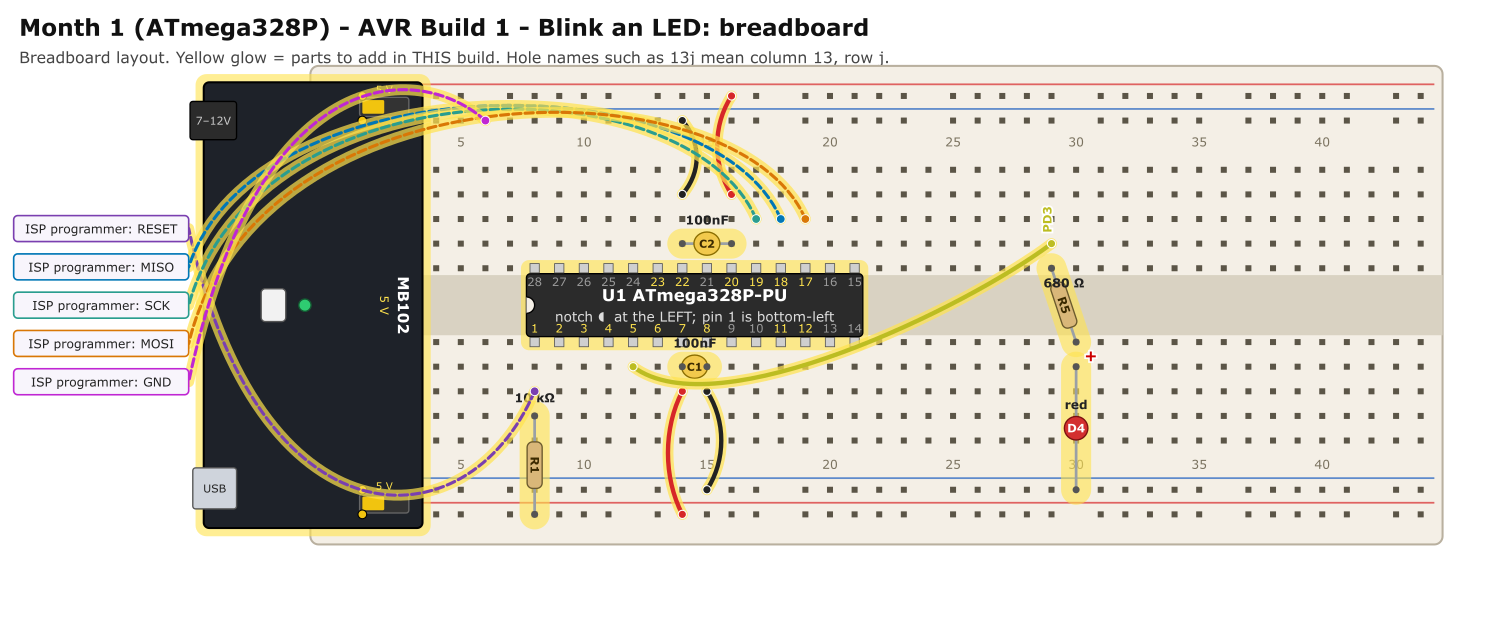
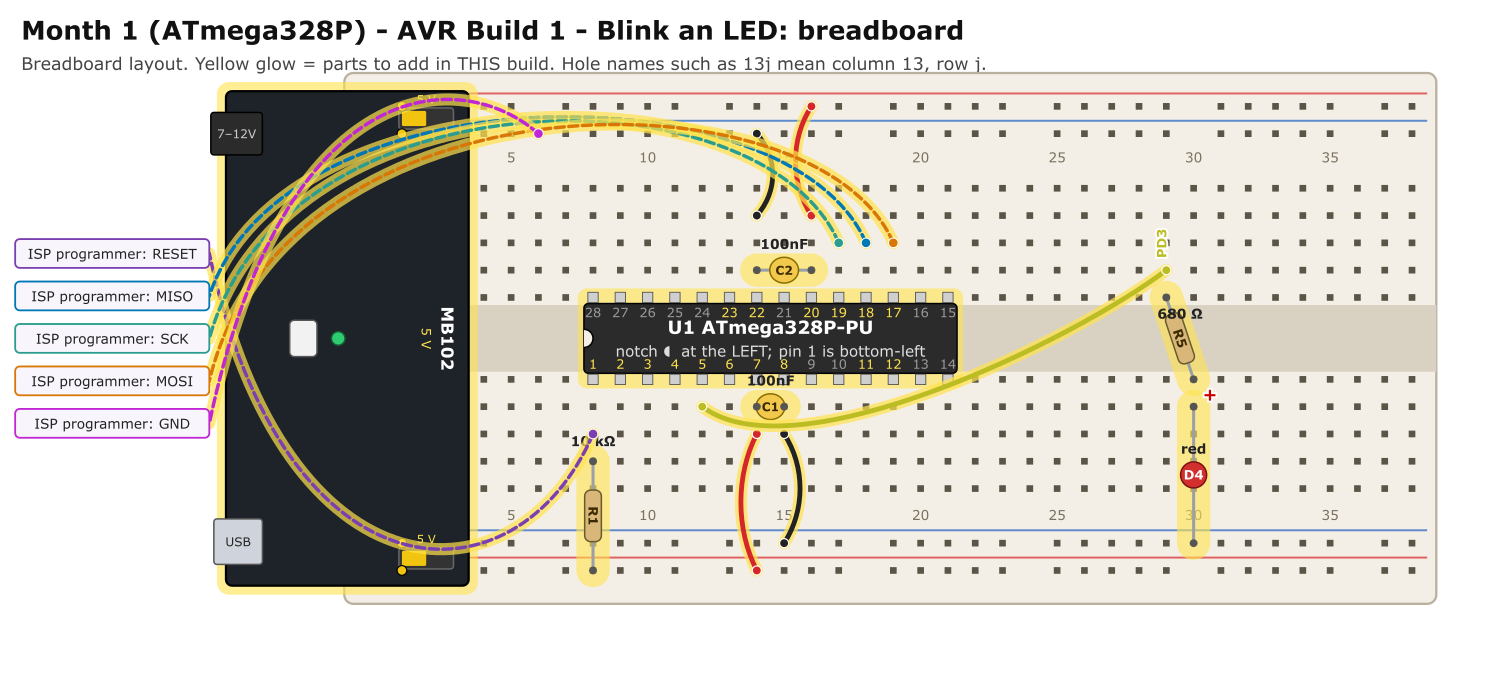
Month 01 Remove Power rail Wires replaced by MB 102

diff --git a/maintainer/tools/circuits/month_01.py b/maintainer/tools/circuits/month_01.py
@@ -42,7 +42,9 @@ def month_01_avr():
 
     b = Board(c)
     b.ic("U1", 8, 1)
-    b.wire("TP63", "BP63", 1, "+5V"); b.wire("TN63", "BN63", 1, "GND")
+    # MB102 power supply at left end of rails (column 1) - powers all builds
+    b.mb102(build=1, col=1, voltage="5 V")
+    # power pins - chip power from rails (no rail bridging wires needed; MB102 feeds left end)
     b.wire("14h", "BP14", 1, "+5V"); b.wire("15h", "BN15", 1, "GND"); b.two("C1", "14g", "15g", 1)
     b.wire("16b", "TP16", 1, "+5V"); b.wire("14b", "TN14", 1, "GND"); b.two("C2", "16d", "14d", 1)
     b.two("R1", "8i", "BP8", 1)
@@ -63,7 +65,7 @@ def month_01_avr():
     b.wire("11g", "27d", 3, "PD2")
     b.two("R4", "27e", "28f", 3)
     b.two("D3", "28g", "BN28", 3)
-    
+
     # D4 (Build 1 centre blink LED, PD3): cols 31-32 (top)
     b.wire("12g", "29d", 1, "PD3")
     b.two("R5", "29e", "30f", 1)
@@ -128,6 +130,7 @@ def month_01_pic():
     b = Board(c)
     b.ic("U1", 8, 1)
     # rails: the supply feeds the LEFT end of the TOP rails; bridge to the bottom rails
+    b.mb102(build=1, col=1, voltage="5 V")
     b.wire("TP2", "BP2", 1, "+5V"); b.wire("TN1", "BN1", 1, "GND")
     # power pins
     b.wire("16b", "TP16", 1, "+5V")          # pin 20 VDD
@@ -215,6 +218,7 @@ def month_01_isp():
 
     b = Board(c)
     b.ic("U1", 5, 1)
+    b.mb102(build=1, col=1, voltage="5 V")
     b.wire("TP2", "BP2", 1, "+5V"); b.wire("TN1", "BN1", 1, "GND")
     # power
     b.wire("11j", "BP11", 1, "+5V"); b.wire("12j", "BN12", 1, "GND"); b.two("C1", "11i", "12i", 1)

diff --git a/README.md b/README.md
@@ -83,9 +83,9 @@ See [maintainer/README.md](maintainer/README.md).
 
 This project uses a dual licence:
 
-| Content | Licence |
-|---------|---------|
+| Content                               | Licence                                                         |
+| ------------------------------------- | --------------------------------------------------------------- |
 | Text, images, diagrams, documentation | [CC BY-SA 4.0](https://creativecommons.org/licenses/by-sa/4.0/) |
-| C source code (`main.c`) | [MIT](LICENSE#source-code-mainc-files--mit-licence) |
+| C source code (`main.c`)              | [MIT](LICENSE#source-code-mainc-files--mit-licence)             |
 
 See [LICENSE](LICENSE) for full details.
